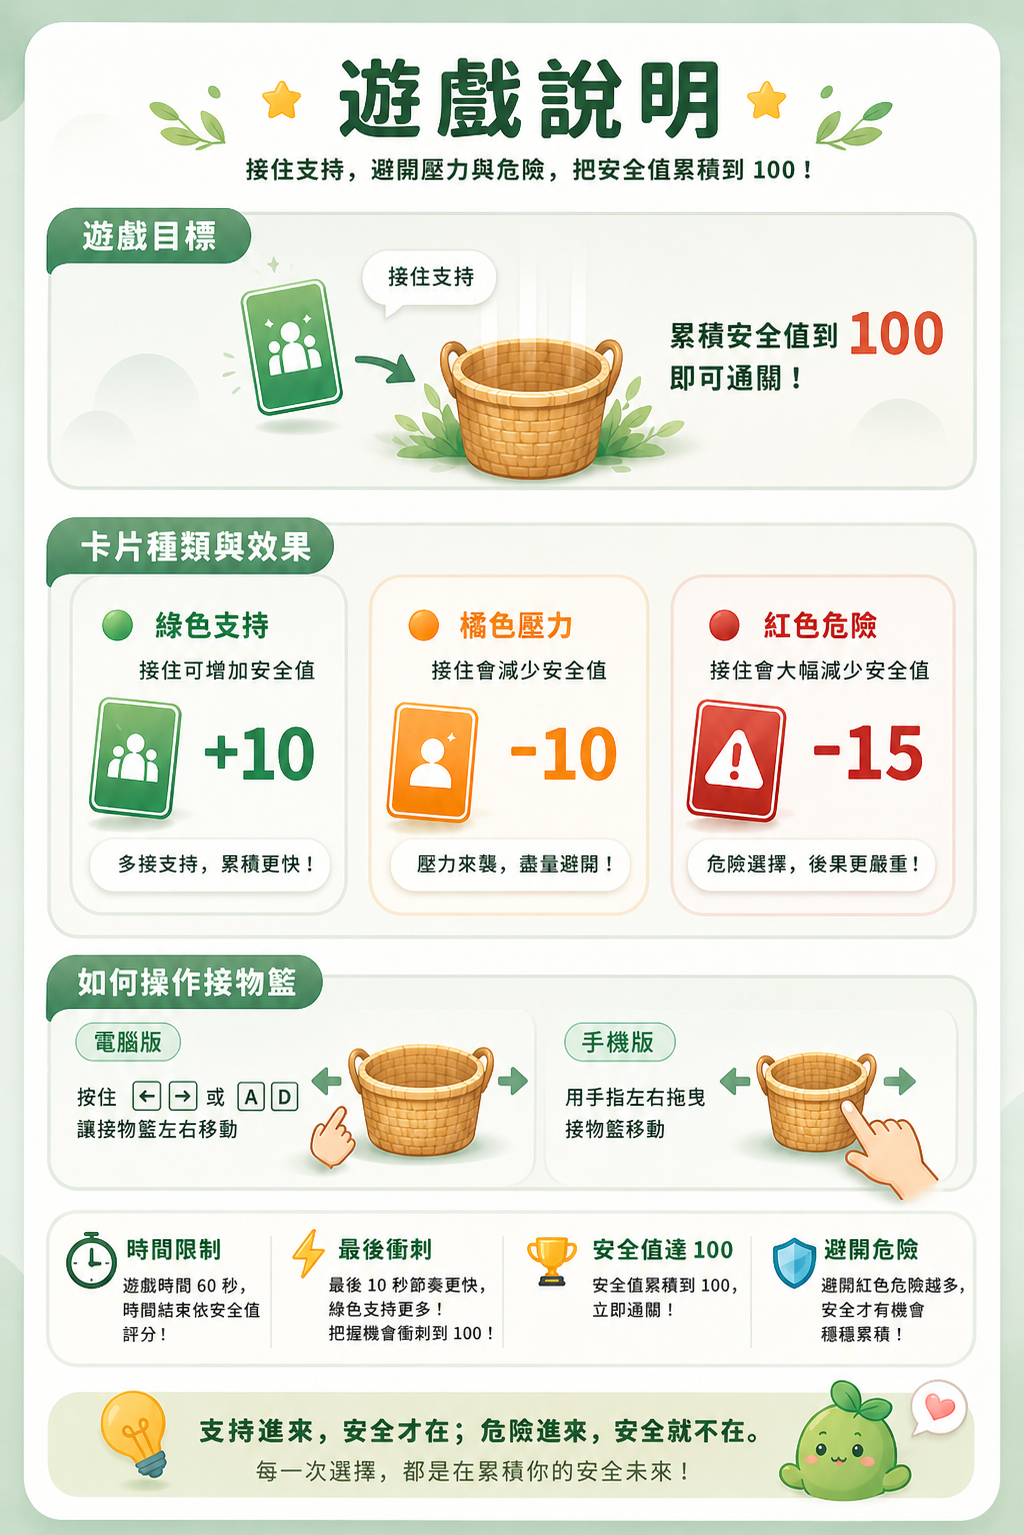
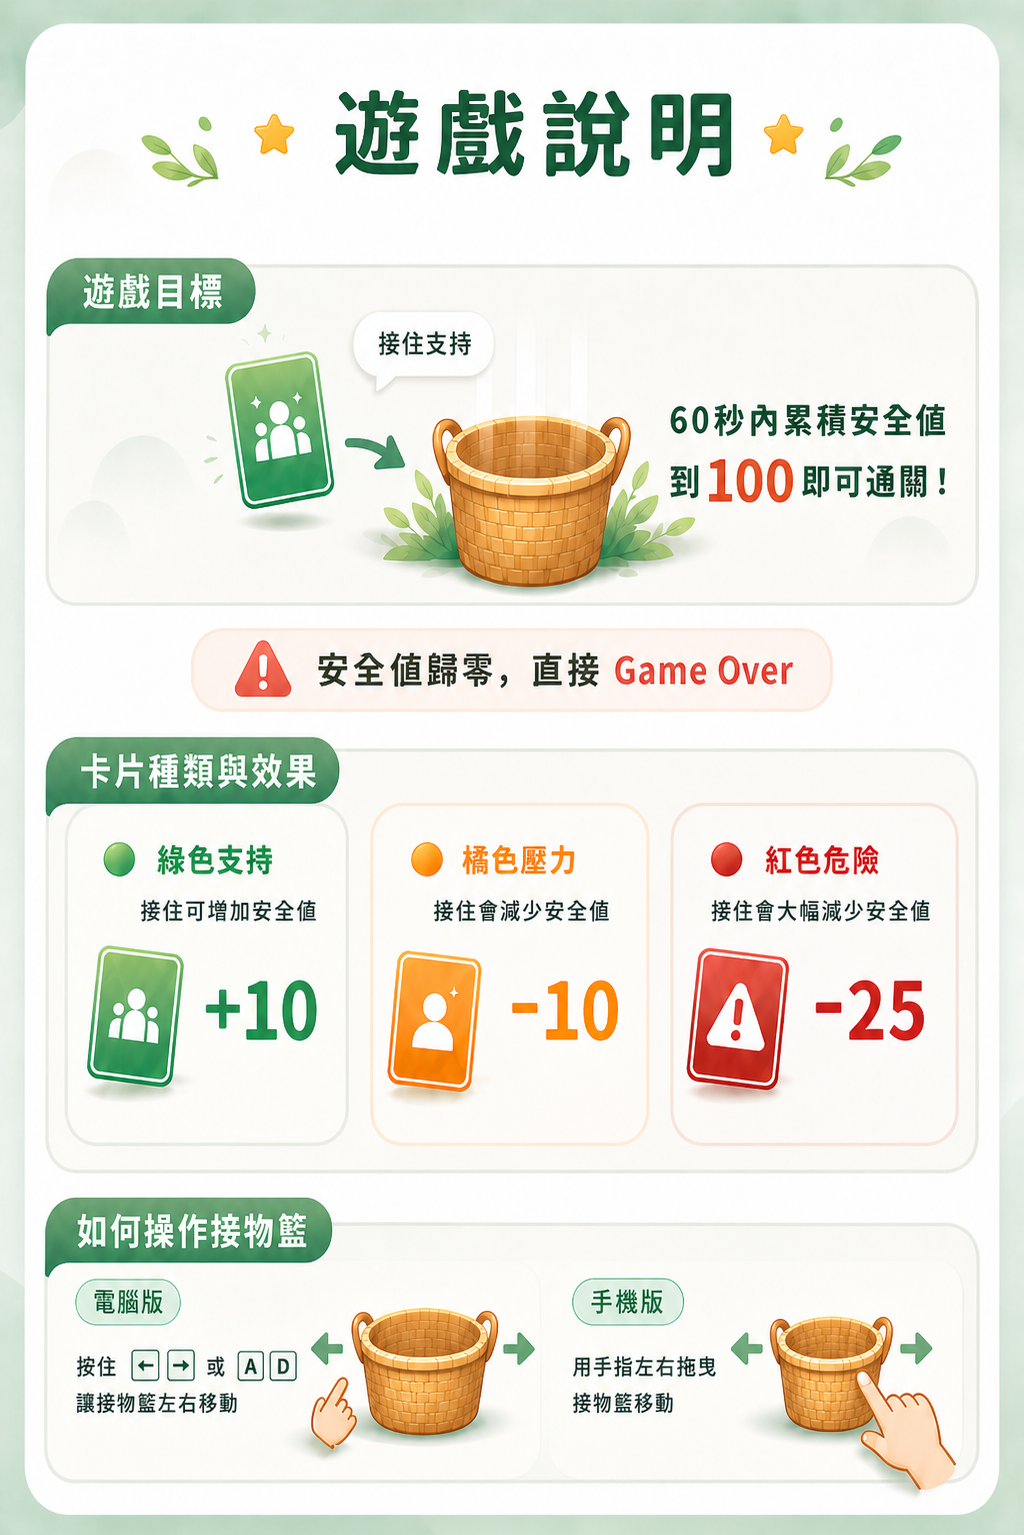
Add files via upload

diff --git a/game.js b/game.js
@@ -1,5 +1,5 @@
 const GAME_DURATION = 60;
-const SAFE_START = 0;
+const SAFE_START = 20;
 const SAFE_MIN = 0;
 const SAFE_MAX = 100;
 const BASE_FALL_SPEED = 96;
@@ -33,7 +33,6 @@ const MID_GAME_SPEED_MULTIPLIER = 1.25;
 const FINAL_SPEED_MULTIPLIER = 1.8;
 const SUPPORT_SLOW_MULTIPLIER = 0.78;
 const SUPPORT_SLOW_DURATION = 2000;
-const SUPPORT_COMBO_BONUS = 2;
 const DANGER_BASKET_SLOW_MULTIPLIER = 0.72;
 const DANGER_BASKET_SLOW_DURATION = 1400;
 const EFFECT_FLASH_DURATION = 700;
@@ -159,35 +158,35 @@ const dropItems = [
     icon: "🗯",
     text: "罵回去",
     type: "danger",
-    safetyChange: -15,
+    safetyChange: -25,
     message: "言語暴力會拉低安全。",
   },
   {
     icon: "📱",
     text: "查手機",
     type: "danger",
-    safetyChange: -15,
+    safetyChange: -25,
     message: "控制不是關心，安全下降。",
   },
   {
     icon: "💥",
     text: "砸東西",
     type: "danger",
-    safetyChange: -15,
+    safetyChange: -25,
     message: "砸東西會讓家人害怕。",
   },
   {
     icon: "⚠",
     text: "威脅人",
     type: "danger",
-    safetyChange: -15,
+    safetyChange: -25,
     message: "威脅會讓安全快速下降。",
   },
   {
     icon: "⛔",
     text: "拿刀械",
     type: "danger",
-    safetyChange: -15,
+    safetyChange: -25,
     message: "武器會讓危險急速升高。",
   },
   {
@@ -706,11 +705,6 @@ function applyItemEffect(item) {
 
   if (item.type === "support") {
     supportStreak += 1;
-
-    if (supportStreak >= 2) {
-      safeScore = clampSafeScore(safeScore + SUPPORT_COMBO_BONUS);
-    }
-
     bestSupportStreak = Math.max(bestSupportStreak, supportStreak);
   } else {
     supportStreak = 0;
@@ -733,8 +727,6 @@ function applyItemEffect(item) {
       showItemMessage("安全成功接住！");
     } else if (safeScore >= 80 && safeBeforeCatch < 80) {
       showItemMessage("快滿了，繼續接住支持！");
-    } else if (supportStreak >= 2) {
-      showItemMessage("連續接住，安全值上升！");
     } else {
       showItemMessage("安全值上升！");
     }
@@ -746,6 +738,12 @@ function applyItemEffect(item) {
   if (safeScore >= SAFE_MAX) {
     playSfx("safe");
     endGame("complete");
+    return;
+  }
+
+  if (safeScore <= SAFE_MIN) {
+    playSfx("gameover");
+    endGame("zero-safety");
   }
 }
 
@@ -1104,6 +1102,7 @@ function renderResult(resultType) {
     "result-near",
     "result-more-support",
     "result-low-safety",
+    "result-zero-safety",
     "result-safe-zone",
     "result-success",
     "result-steady",
@@ -1139,6 +1138,13 @@ function renderResult(resultType) {
       title: "安全還沒接住",
       description: "支持不足時，危險更容易靠近，需要更早求助與介入。",
       tip: "下一次先鎖定綠色支持。",
+      button: "再挑戰一次",
+    },
+    "zero-safety": {
+      badge: "安全歸零",
+      title: "安全值歸零",
+      description: "安全值降到 0，代表危險已經超過可承受範圍，需要更早接住支持。",
+      tip: "下一次先避開紅色危險，接住綠色支持。",
       button: "再挑戰一次",
     },
   };

diff --git a/style.css b/style.css
@@ -2008,7 +2008,8 @@ h1 {
 
 #result-screen.result-crisis .result-badge,
 #result-screen.result-high-risk .result-badge,
-#result-screen.result-low-safety .result-badge {
+#result-screen.result-low-safety .result-badge,
+#result-screen.result-zero-safety .result-badge {
   background: var(--mission-red);
 }
 
@@ -2095,7 +2096,8 @@ h1 {
 
 #result-screen.result-high-risk .mission-panel,
 #result-screen.result-crisis .mission-panel,
-#result-screen.result-low-safety .mission-panel {
+#result-screen.result-low-safety .mission-panel,
+#result-screen.result-zero-safety .mission-panel {
   border-top: 8px solid var(--mission-red);
 }
 

diff --git a/index.html b/index.html
@@ -53,7 +53,7 @@
           <div class="risk-panel hud-risk" aria-label="目前安全值">
             <div class="risk-topline">
               <span>安全值</span>
-              <strong id="risk-value">0 / 100</strong>
+              <strong id="risk-value">20 / 100</strong>
             </div>
             <div class="risk-meter" aria-hidden="true">
               <div id="risk-bar" class="risk-bar"></div>
